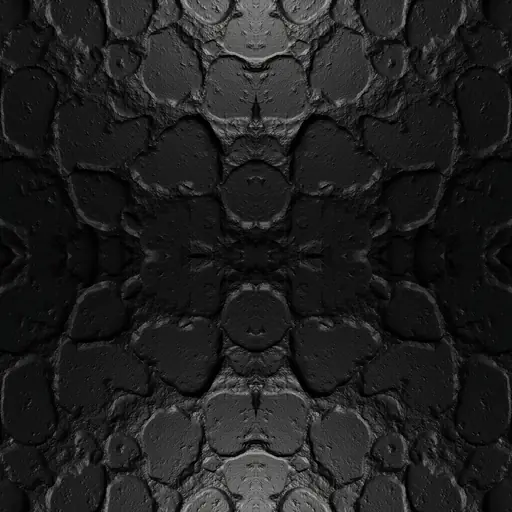
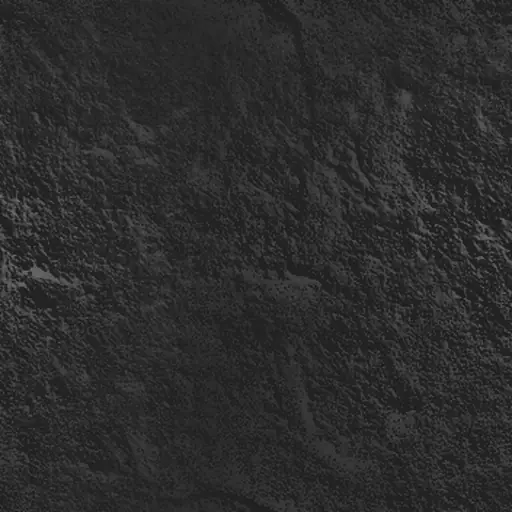
home hero: finer stone texture, hole-free floor plan, lit marks stay legible
- Texture: regenerated with a fine-grain prompt; high-passed to drop large
  features; tiled with an edge cross-fade (no mirror). Pattern scale halved, so
  faces show fine grain. 24 KB.
- Floor plan: 5-4-4-4 rows (17 blocks), no empty cell inside; the floor plate
  follows the stepped outline.
- Lit state: the carved recess is 26% lime and the rim is lime, instead of a
  flat 100% fill, so the mark keeps its shape. Owlpost and Living Brain are solid
  silhouettes, so they still read as blobs when lit.

diff --git a/index.html b/index.html
@@ -153,7 +153,7 @@
       <span class="hb-chev" aria-hidden="true">&rsaquo;</span>
       <p class="hb-typed" aria-live="off"><span data-typed>A waitlist with email confirmation and an admin page</span><span class="hb-caret" aria-hidden="true"></span></p>
     </div>
-<svg class="hb-svg" viewBox="-386.41 -157 859.42 641" aria-hidden="true" focusable="false">
+<svg class="hb-svg" viewBox="-386.41 -157 859.42 591" aria-hidden="true" focusable="false">
   <defs>
     <symbol id="hb-mk-owlpost" viewBox="0 0 120 120">
   
@@ -457,17 +457,6 @@
     <rect x="-36" y="10" width="36" height="100" fill="currentColor" stroke="none"/>
   </g>
 </symbol>
-    <symbol id="hb-mk-shoal" viewBox="0 0 120 120">
-  
-  
-  
-  <rect x="10" y="10" width="100" height="100" rx="23.4" fill="currentColor" stroke="none"/>
-  <g transform="translate(24.69 23.75) scale(3.047)">
-    <path d="M3 7l3 5-3 5" fill="currentColor" stroke="none"/>
-    <path d="M10 5l4 7-4 7" fill="currentColor" stroke="none"/>
-    <path d="M18 8l2.5 4-2.5 4" fill="currentColor" stroke="none"/>
-  </g>
-</symbol>
     <symbol id="hb-mk-posplugin" viewBox="0 0 120 120">
   
   
@@ -479,6 +468,17 @@
     <rect x="44" y="40" width="9" height="9" fill="currentColor" stroke="none"/>
     <rect x="84" y="42" width="28" height="9" fill="currentColor" stroke="none"/>
     <rect x="84" y="69" width="28" height="9" fill="currentColor" stroke="none"/>
+  </g>
+</symbol>
+    <symbol id="hb-mk-shoal" viewBox="0 0 120 120">
+  
+  
+  
+  <rect x="10" y="10" width="100" height="100" rx="23.4" fill="currentColor" stroke="none"/>
+  <g transform="translate(24.69 23.75) scale(3.047)">
+    <path d="M3 7l3 5-3 5" fill="currentColor" stroke="none"/>
+    <path d="M10 5l4 7-4 7" fill="currentColor" stroke="none"/>
+    <path d="M18 8l2.5 4-2.5 4" fill="currentColor" stroke="none"/>
   </g>
 </symbol>
     <symbol id="hb-mk-release-show" viewBox="0 0 120 120">
@@ -494,25 +494,25 @@
     <circle cx="89.7" cy="30.3" r="6.25" fill="currentColor" stroke="none"/>
   </g>
 </symbol>
-    <pattern id="hb-st-0" patternUnits="userSpaceOnUse" x="0" y="0" width="300" height="300"><image href="/assets/ui/block-stone.webp" width="300" height="300" preserveAspectRatio="none"/></pattern>
-    <pattern id="hb-st-1" patternUnits="userSpaceOnUse" x="97" y="131" width="300" height="300"><image href="/assets/ui/block-stone.webp" width="300" height="300" preserveAspectRatio="none"/></pattern>
-    <pattern id="hb-st-2" patternUnits="userSpaceOnUse" x="194" y="262" width="300" height="300"><image href="/assets/ui/block-stone.webp" width="300" height="300" preserveAspectRatio="none"/></pattern>
-    <pattern id="hb-st-3" patternUnits="userSpaceOnUse" x="291" y="93" width="300" height="300"><image href="/assets/ui/block-stone.webp" width="300" height="300" preserveAspectRatio="none"/></pattern>
-    <pattern id="hb-st-4" patternUnits="userSpaceOnUse" x="88" y="224" width="300" height="300"><image href="/assets/ui/block-stone.webp" width="300" height="300" preserveAspectRatio="none"/></pattern>
-    <pattern id="hb-st-5" patternUnits="userSpaceOnUse" x="185" y="55" width="300" height="300"><image href="/assets/ui/block-stone.webp" width="300" height="300" preserveAspectRatio="none"/></pattern>
-    <pattern id="hb-st-6" patternUnits="userSpaceOnUse" x="282" y="186" width="300" height="300"><image href="/assets/ui/block-stone.webp" width="300" height="300" preserveAspectRatio="none"/></pattern>
-    <pattern id="hb-st-7" patternUnits="userSpaceOnUse" x="79" y="17" width="300" height="300"><image href="/assets/ui/block-stone.webp" width="300" height="300" preserveAspectRatio="none"/></pattern>
-    <pattern id="hb-st-8" patternUnits="userSpaceOnUse" x="176" y="148" width="300" height="300"><image href="/assets/ui/block-stone.webp" width="300" height="300" preserveAspectRatio="none"/></pattern>
-    <pattern id="hb-st-9" patternUnits="userSpaceOnUse" x="273" y="279" width="300" height="300"><image href="/assets/ui/block-stone.webp" width="300" height="300" preserveAspectRatio="none"/></pattern>
-    <pattern id="hb-st-10" patternUnits="userSpaceOnUse" x="70" y="110" width="300" height="300"><image href="/assets/ui/block-stone.webp" width="300" height="300" preserveAspectRatio="none"/></pattern>
-    <pattern id="hb-st-11" patternUnits="userSpaceOnUse" x="167" y="241" width="300" height="300"><image href="/assets/ui/block-stone.webp" width="300" height="300" preserveAspectRatio="none"/></pattern>
-    <pattern id="hb-st-12" patternUnits="userSpaceOnUse" x="264" y="72" width="300" height="300"><image href="/assets/ui/block-stone.webp" width="300" height="300" preserveAspectRatio="none"/></pattern>
-    <pattern id="hb-st-13" patternUnits="userSpaceOnUse" x="61" y="203" width="300" height="300"><image href="/assets/ui/block-stone.webp" width="300" height="300" preserveAspectRatio="none"/></pattern>
-    <pattern id="hb-st-14" patternUnits="userSpaceOnUse" x="158" y="34" width="300" height="300"><image href="/assets/ui/block-stone.webp" width="300" height="300" preserveAspectRatio="none"/></pattern>
-    <pattern id="hb-st-15" patternUnits="userSpaceOnUse" x="255" y="165" width="300" height="300"><image href="/assets/ui/block-stone.webp" width="300" height="300" preserveAspectRatio="none"/></pattern>
-    <pattern id="hb-st-16" patternUnits="userSpaceOnUse" x="52" y="296" width="300" height="300"><image href="/assets/ui/block-stone.webp" width="300" height="300" preserveAspectRatio="none"/></pattern>
+    <pattern id="hb-st-0" patternUnits="userSpaceOnUse" x="0" y="0" width="200" height="200"><image href="/assets/ui/block-stone.webp" width="200" height="200" preserveAspectRatio="none"/></pattern>
+    <pattern id="hb-st-1" patternUnits="userSpaceOnUse" x="97" y="131" width="200" height="200"><image href="/assets/ui/block-stone.webp" width="200" height="200" preserveAspectRatio="none"/></pattern>
+    <pattern id="hb-st-2" patternUnits="userSpaceOnUse" x="194" y="62" width="200" height="200"><image href="/assets/ui/block-stone.webp" width="200" height="200" preserveAspectRatio="none"/></pattern>
+    <pattern id="hb-st-3" patternUnits="userSpaceOnUse" x="91" y="193" width="200" height="200"><image href="/assets/ui/block-stone.webp" width="200" height="200" preserveAspectRatio="none"/></pattern>
+    <pattern id="hb-st-4" patternUnits="userSpaceOnUse" x="188" y="124" width="200" height="200"><image href="/assets/ui/block-stone.webp" width="200" height="200" preserveAspectRatio="none"/></pattern>
+    <pattern id="hb-st-5" patternUnits="userSpaceOnUse" x="85" y="55" width="200" height="200"><image href="/assets/ui/block-stone.webp" width="200" height="200" preserveAspectRatio="none"/></pattern>
+    <pattern id="hb-st-6" patternUnits="userSpaceOnUse" x="182" y="186" width="200" height="200"><image href="/assets/ui/block-stone.webp" width="200" height="200" preserveAspectRatio="none"/></pattern>
+    <pattern id="hb-st-7" patternUnits="userSpaceOnUse" x="79" y="117" width="200" height="200"><image href="/assets/ui/block-stone.webp" width="200" height="200" preserveAspectRatio="none"/></pattern>
+    <pattern id="hb-st-8" patternUnits="userSpaceOnUse" x="176" y="48" width="200" height="200"><image href="/assets/ui/block-stone.webp" width="200" height="200" preserveAspectRatio="none"/></pattern>
+    <pattern id="hb-st-9" patternUnits="userSpaceOnUse" x="73" y="179" width="200" height="200"><image href="/assets/ui/block-stone.webp" width="200" height="200" preserveAspectRatio="none"/></pattern>
+    <pattern id="hb-st-10" patternUnits="userSpaceOnUse" x="170" y="110" width="200" height="200"><image href="/assets/ui/block-stone.webp" width="200" height="200" preserveAspectRatio="none"/></pattern>
+    <pattern id="hb-st-11" patternUnits="userSpaceOnUse" x="67" y="41" width="200" height="200"><image href="/assets/ui/block-stone.webp" width="200" height="200" preserveAspectRatio="none"/></pattern>
+    <pattern id="hb-st-12" patternUnits="userSpaceOnUse" x="164" y="172" width="200" height="200"><image href="/assets/ui/block-stone.webp" width="200" height="200" preserveAspectRatio="none"/></pattern>
+    <pattern id="hb-st-13" patternUnits="userSpaceOnUse" x="61" y="103" width="200" height="200"><image href="/assets/ui/block-stone.webp" width="200" height="200" preserveAspectRatio="none"/></pattern>
+    <pattern id="hb-st-14" patternUnits="userSpaceOnUse" x="158" y="34" width="200" height="200"><image href="/assets/ui/block-stone.webp" width="200" height="200" preserveAspectRatio="none"/></pattern>
+    <pattern id="hb-st-15" patternUnits="userSpaceOnUse" x="55" y="165" width="200" height="200"><image href="/assets/ui/block-stone.webp" width="200" height="200" preserveAspectRatio="none"/></pattern>
+    <pattern id="hb-st-16" patternUnits="userSpaceOnUse" x="152" y="96" width="200" height="200"><image href="/assets/ui/block-stone.webp" width="200" height="200" preserveAspectRatio="none"/></pattern>
   </defs>
-  <polygon class="hb-plate" points="0,0 433.01,250 86.6,450 -346.41,200"/>
+  <polygon class="hb-plate" points="0,0 433.01,250 346.41,300 259.81,250 173.21,300 173.21,300 86.6,350 86.6,350 0,400 -346.41,200"/>
     <g class="hb is-lit" data-venture="FZ-013" data-name="Owlpost">
       <a href="/ventures/owlpost/" tabindex="-1">
         <polygon class="hb-face hb-left" points="-74.48,-42 0,1 0,93 -74.48,50" fill="#1b1e1b"/><polygon class="hb-tex" points="-74.48,-42 0,1 0,93 -74.48,50" fill="url(#hb-st-0)"/><polygon class="hb-shade" points="-74.48,-42 0,1 0,93 -74.48,50" fill="rgba(0,0,0,.2)"/>
@@ -695,24 +695,11 @@
       </a>
       <text class="hb-label" x="-210.44" y="293.5" text-anchor="middle">VibeCaddie</text>
     </g>
-    <g class="hb" data-venture="FZ-019" data-name="Shoal">
-      <a href="/ventures/shoal/" tabindex="-1">
-        <polygon class="hb-face hb-left" points="185.33,208 259.81,251 259.81,343 185.33,300" fill="#1b1e1b"/><polygon class="hb-tex" points="185.33,208 259.81,251 259.81,343 185.33,300" fill="url(#hb-st-14)"/><polygon class="hb-shade" points="185.33,208 259.81,251 259.81,343 185.33,300" fill="rgba(0,0,0,.2)"/>
-        <polygon class="hb-face hb-right" points="334.29,208 259.81,251 259.81,343 334.29,300" fill="#0d0f0d"/><polygon class="hb-tex" points="334.29,208 259.81,251 259.81,343 334.29,300" fill="url(#hb-st-14)"/><polygon class="hb-shade" points="334.29,208 259.81,251 259.81,343 334.29,300" fill="rgba(0,0,0,.52)"/>
-        <polygon class="hb-face hb-top" points="259.81,165 334.29,208 259.81,251 185.33,208" fill="#2a2e29"/><polygon class="hb-tex" points="259.81,165 334.29,208 259.81,251 185.33,208" fill="url(#hb-st-14)"/><polygon class="hb-shade" points="259.81,165 334.29,208 259.81,251 185.33,208" fill="rgba(237,239,232,.13)"/>
-        <polygon class="hb-edge" points="259.81,165 334.29,208 259.81,251 185.33,208" fill="none"/>
-        <g transform="matrix(74.48 43 -74.48 43 259.81 165)">
-          <use class="hb-rim" href="#hb-mk-shoal" x="0.222" y="0.222" width="0.6" height="0.6"/>
-          <use class="hb-cut" href="#hb-mk-shoal" x="0.2" y="0.2" width="0.6" height="0.6"/>
-        </g>
-      </a>
-      <text class="hb-label" x="222.57" y="343.5" text-anchor="middle">Shoal</text>
-    </g>
     <g class="hb" data-venture="FZ-011" data-name="PosPlugin">
       <a href="/ventures/posplugin/" tabindex="-1">
-        <polygon class="hb-face hb-left" points="12.12,208 86.6,251 86.6,343 12.12,300" fill="#1b1e1b"/><polygon class="hb-tex" points="12.12,208 86.6,251 86.6,343 12.12,300" fill="url(#hb-st-15)"/><polygon class="hb-shade" points="12.12,208 86.6,251 86.6,343 12.12,300" fill="rgba(0,0,0,.2)"/>
-        <polygon class="hb-face hb-right" points="161.08,208 86.6,251 86.6,343 161.08,300" fill="#0d0f0d"/><polygon class="hb-tex" points="161.08,208 86.6,251 86.6,343 161.08,300" fill="url(#hb-st-15)"/><polygon class="hb-shade" points="161.08,208 86.6,251 86.6,343 161.08,300" fill="rgba(0,0,0,.52)"/>
-        <polygon class="hb-face hb-top" points="86.6,165 161.08,208 86.6,251 12.12,208" fill="#2a2e29"/><polygon class="hb-tex" points="86.6,165 161.08,208 86.6,251 12.12,208" fill="url(#hb-st-15)"/><polygon class="hb-shade" points="86.6,165 161.08,208 86.6,251 12.12,208" fill="rgba(237,239,232,.13)"/>
+        <polygon class="hb-face hb-left" points="12.12,208 86.6,251 86.6,343 12.12,300" fill="#1b1e1b"/><polygon class="hb-tex" points="12.12,208 86.6,251 86.6,343 12.12,300" fill="url(#hb-st-14)"/><polygon class="hb-shade" points="12.12,208 86.6,251 86.6,343 12.12,300" fill="rgba(0,0,0,.2)"/>
+        <polygon class="hb-face hb-right" points="161.08,208 86.6,251 86.6,343 161.08,300" fill="#0d0f0d"/><polygon class="hb-tex" points="161.08,208 86.6,251 86.6,343 161.08,300" fill="url(#hb-st-14)"/><polygon class="hb-shade" points="161.08,208 86.6,251 86.6,343 161.08,300" fill="rgba(0,0,0,.52)"/>
+        <polygon class="hb-face hb-top" points="86.6,165 161.08,208 86.6,251 12.12,208" fill="#2a2e29"/><polygon class="hb-tex" points="86.6,165 161.08,208 86.6,251 12.12,208" fill="url(#hb-st-14)"/><polygon class="hb-shade" points="86.6,165 161.08,208 86.6,251 12.12,208" fill="rgba(237,239,232,.13)"/>
         <polygon class="hb-edge" points="86.6,165 161.08,208 86.6,251 12.12,208" fill="none"/>
         <g transform="matrix(74.48 43 -74.48 43 86.6 165)">
           <use class="hb-rim" href="#hb-mk-posplugin" x="0.222" y="0.222" width="0.6" height="0.6"/>
@@ -721,18 +708,31 @@
       </a>
       <text class="hb-label" x="49.36" y="343.5" text-anchor="middle">PosPlugin</text>
     </g>
+    <g class="hb" data-venture="FZ-019" data-name="Shoal">
+      <a href="/ventures/shoal/" tabindex="-1">
+        <polygon class="hb-face hb-left" points="-161.08,208 -86.6,251 -86.6,343 -161.08,300" fill="#1b1e1b"/><polygon class="hb-tex" points="-161.08,208 -86.6,251 -86.6,343 -161.08,300" fill="url(#hb-st-15)"/><polygon class="hb-shade" points="-161.08,208 -86.6,251 -86.6,343 -161.08,300" fill="rgba(0,0,0,.2)"/>
+        <polygon class="hb-face hb-right" points="-12.12,208 -86.6,251 -86.6,343 -12.12,300" fill="#0d0f0d"/><polygon class="hb-tex" points="-12.12,208 -86.6,251 -86.6,343 -12.12,300" fill="url(#hb-st-15)"/><polygon class="hb-shade" points="-12.12,208 -86.6,251 -86.6,343 -12.12,300" fill="rgba(0,0,0,.52)"/>
+        <polygon class="hb-face hb-top" points="-86.6,165 -12.12,208 -86.6,251 -161.08,208" fill="#2a2e29"/><polygon class="hb-tex" points="-86.6,165 -12.12,208 -86.6,251 -161.08,208" fill="url(#hb-st-15)"/><polygon class="hb-shade" points="-86.6,165 -12.12,208 -86.6,251 -161.08,208" fill="rgba(237,239,232,.13)"/>
+        <polygon class="hb-edge" points="-86.6,165 -12.12,208 -86.6,251 -161.08,208" fill="none"/>
+        <g transform="matrix(74.48 43 -74.48 43 -86.6 165)">
+          <use class="hb-rim" href="#hb-mk-shoal" x="0.222" y="0.222" width="0.6" height="0.6"/>
+          <use class="hb-cut" href="#hb-mk-shoal" x="0.2" y="0.2" width="0.6" height="0.6"/>
+        </g>
+      </a>
+      <text class="hb-label" x="-123.84" y="343.5" text-anchor="middle">Shoal</text>
+    </g>
     <g class="hb" data-venture="FZ-017" data-name="release.show">
       <a href="/ventures/release-show/" tabindex="-1">
-        <polygon class="hb-face hb-left" points="98.73,258 173.21,301 173.21,393 98.73,350" fill="#1b1e1b"/><polygon class="hb-tex" points="98.73,258 173.21,301 173.21,393 98.73,350" fill="url(#hb-st-16)"/><polygon class="hb-shade" points="98.73,258 173.21,301 173.21,393 98.73,350" fill="rgba(0,0,0,.2)"/>
-        <polygon class="hb-face hb-right" points="247.68,258 173.21,301 173.21,393 247.68,350" fill="#0d0f0d"/><polygon class="hb-tex" points="247.68,258 173.21,301 173.21,393 247.68,350" fill="url(#hb-st-16)"/><polygon class="hb-shade" points="247.68,258 173.21,301 173.21,393 247.68,350" fill="rgba(0,0,0,.52)"/>
-        <polygon class="hb-face hb-top" points="173.21,215 247.68,258 173.21,301 98.73,258" fill="#2a2e29"/><polygon class="hb-tex" points="173.21,215 247.68,258 173.21,301 98.73,258" fill="url(#hb-st-16)"/><polygon class="hb-shade" points="173.21,215 247.68,258 173.21,301 98.73,258" fill="rgba(237,239,232,.13)"/>
-        <polygon class="hb-edge" points="173.21,215 247.68,258 173.21,301 98.73,258" fill="none"/>
-        <g transform="matrix(74.48 43 -74.48 43 173.21 215)">
+        <polygon class="hb-face hb-left" points="-74.48,258 0,301 0,393 -74.48,350" fill="#1b1e1b"/><polygon class="hb-tex" points="-74.48,258 0,301 0,393 -74.48,350" fill="url(#hb-st-16)"/><polygon class="hb-shade" points="-74.48,258 0,301 0,393 -74.48,350" fill="rgba(0,0,0,.2)"/>
+        <polygon class="hb-face hb-right" points="74.48,258 0,301 0,393 74.48,350" fill="#0d0f0d"/><polygon class="hb-tex" points="74.48,258 0,301 0,393 74.48,350" fill="url(#hb-st-16)"/><polygon class="hb-shade" points="74.48,258 0,301 0,393 74.48,350" fill="rgba(0,0,0,.52)"/>
+        <polygon class="hb-face hb-top" points="0,215 74.48,258 0,301 -74.48,258" fill="#2a2e29"/><polygon class="hb-tex" points="0,215 74.48,258 0,301 -74.48,258" fill="url(#hb-st-16)"/><polygon class="hb-shade" points="0,215 74.48,258 0,301 -74.48,258" fill="rgba(237,239,232,.13)"/>
+        <polygon class="hb-edge" points="0,215 74.48,258 0,301 -74.48,258" fill="none"/>
+        <g transform="matrix(74.48 43 -74.48 43 0 215)">
           <use class="hb-rim" href="#hb-mk-release-show" x="0.222" y="0.222" width="0.6" height="0.6"/>
           <use class="hb-cut" href="#hb-mk-release-show" x="0.2" y="0.2" width="0.6" height="0.6"/>
         </g>
       </a>
-      <text class="hb-label" x="135.97" y="393.5" text-anchor="middle">release.show</text>
+      <text class="hb-label" x="-37.24" y="393.5" text-anchor="middle">release.show</text>
     </g>
 </svg>
     <p class="hb-built" aria-live="off" data-built>→ built with: Cratefield · Owlpost</p>

diff --git a/tools/hero-scene.js b/tools/hero-scene.js
@@ -20,12 +20,11 @@ const G = 0.07;         // gap between blocks, in cells
 const SQ = Math.sqrt(3) / 2;
 // The 5 x 4 floor plan. Each stack venture appears exactly once (checked below).
 const LAYOUT = [
-  ['FZ-013', 'FZ-004', 'FZ-006', 'FZ-016', 'FZ-012'],
-  ['FZ-018', 'FZ-021', 'FZ-020', 'FZ-008', 'FZ-019'],
-  ['FZ-001', 'FZ-022', 'FZ-023', 'FZ-011', 'FZ-017'],
-  ['FZ-009', 'FZ-005', null, null, null],
+  ["FZ-013", "FZ-004", "FZ-006", "FZ-016", "FZ-012"],
+  ["FZ-018", "FZ-021", "FZ-020", "FZ-008"],
+  ["FZ-001", "FZ-022", "FZ-023", "FZ-011"],
+  ["FZ-009", "FZ-005", "FZ-019", "FZ-017"],
 ];
-const GROUND_W = 5, GROUND_D = 4;
 const num = n => +n.toFixed(2);
 const P = (x, y, z) => [num((x - y) * SQ * L), num((x + y) * 0.5 * L - z * H)];
 const pts = a => a.map(p => p.join(',')).join(' ');
@@ -64,8 +63,13 @@ function heroScene({ root, stack, slugOf, prompts }) {
   const symbols = [], patterns = [], blocks = [], labels = [];
   const boxes = [];
   // Ground plate under the whole floor plan.
-  const ground = [P(0, 0, 0), P(GROUND_W, 0, 0), P(GROUND_W, GROUND_D, 0), P(0, GROUND_D, 0)];
-  boxes.push(...ground);
+  // The floor plate follows the stepped outline of the rows: no empty cell inside the plan.
+  const widths = LAYOUT.map(r => r.length), R = LAYOUT.length;
+  const ground = [[0, 0], [widths[0], 0]];
+  for (let j = 0; j < R - 1; j++) ground.push([widths[j], j + 1], [widths[j + 1], j + 1]);
+  ground.push([widths[R - 1], R], [0, R]);
+  const gp = ground.map(([x, y]) => P(x, y, 0));
+  boxes.push(...gp);
 
   const cells = [];
   LAYOUT.forEach((row, j) => row.forEach((id, i) => { if (id) cells.push({ id, i, j }); }));
@@ -92,8 +96,8 @@ function heroScene({ root, stack, slugOf, prompts }) {
     const m = [SQ * L * w, 0.5 * L * w, -SQ * L * w, 0.5 * L * w, num(ox), num(oy)].map(num).join(' ');
     const mk = 0.6, mo = (1 - mk) / 2, rim = 0.022;
     const pat = `hb-st-${n}`;
-    const px = (n * 97) % 300, py = (n * 131) % 300;
-    patterns.push(`<pattern id="${pat}" patternUnits="userSpaceOnUse" x="${px}" y="${py}" width="300" height="300"><image href="/assets/ui/block-stone.webp" width="300" height="300" preserveAspectRatio="none"/></pattern>`);
+    const px = (n * 97) % 200, py = (n * 131) % 200;
+    patterns.push(`<pattern id="${pat}" patternUnits="userSpaceOnUse" x="${px}" y="${py}" width="200" height="200"><image href="/assets/ui/block-stone.webp" width="200" height="200" preserveAspectRatio="none"/></pattern>`);
     const lx = P((x0 + x1) / 2, y1, 0);
     blocks.push(`    <g class="hb" data-venture="${esc(id)}" data-name="${esc(v.name)}">
       <a href="/ventures/${esc(slug)}/" tabindex="-1">
@@ -114,7 +118,7 @@ function heroScene({ root, stack, slugOf, prompts }) {
   const vbMinX = Math.min(...boxes.map(p => p[0])) - 40, vbMaxX = Math.max(...boxes.map(p => p[0])) + 40;
   const vbMinY = Math.min(...boxes.map(p => p[1])) - 30, vbMaxY = Math.max(...boxes.map(p => p[1])) + 34;
   const vb = [num(vbMinX), num(vbMinY), num(vbMaxX - vbMinX), num(vbMaxY - vbMinY)].join(' ');
-  const plate = `<polygon class="hb-plate" points="${pts(ground)}"/>`;
+  const plate = `<polygon class="hb-plate" points="${pts(gp)}"/>`;
   const svg = `<svg class="hb-svg" viewBox="${vb}" aria-hidden="true" focusable="false">
   <defs>
     ${symbols.join('\n    ')}

diff --git a/assets/fz-ui.css b/assets/fz-ui.css
@@ -198,8 +198,8 @@ button, input { font: inherit; color: inherit; }
 .hb.is-lit .hb-edge { stroke: var(--acc); stroke-width: 1.8; }
 .hb-rim { color: rgba(237, 239, 232, .42); transition: color .6s var(--ease); }
 .hb-cut { color: rgba(0, 0, 0, .6); transition: color .6s var(--ease); }
-.hb.is-lit .hb-cut { color: var(--acc); }
-.hb.is-lit .hb-rim { color: rgba(198, 255, 61, .55); }
+.hb.is-lit .hb-cut { color: rgba(198, 255, 61, .26); }
+.hb.is-lit .hb-rim { color: rgba(198, 255, 61, .7); }
 .hb-label { font: 500 14px var(--mono); letter-spacing: .1em; text-transform: uppercase; fill: var(--acc); opacity: 0; transition: opacity .5s var(--ease); }
 .hb.is-lit .hb-label { opacity: 1; }
 @media (prefers-reduced-motion: reduce) { .hb, .hb-edge, .hb-rim, .hb-cut, .hb-label { transition: none; } .hb-caret { animation: none; } }
